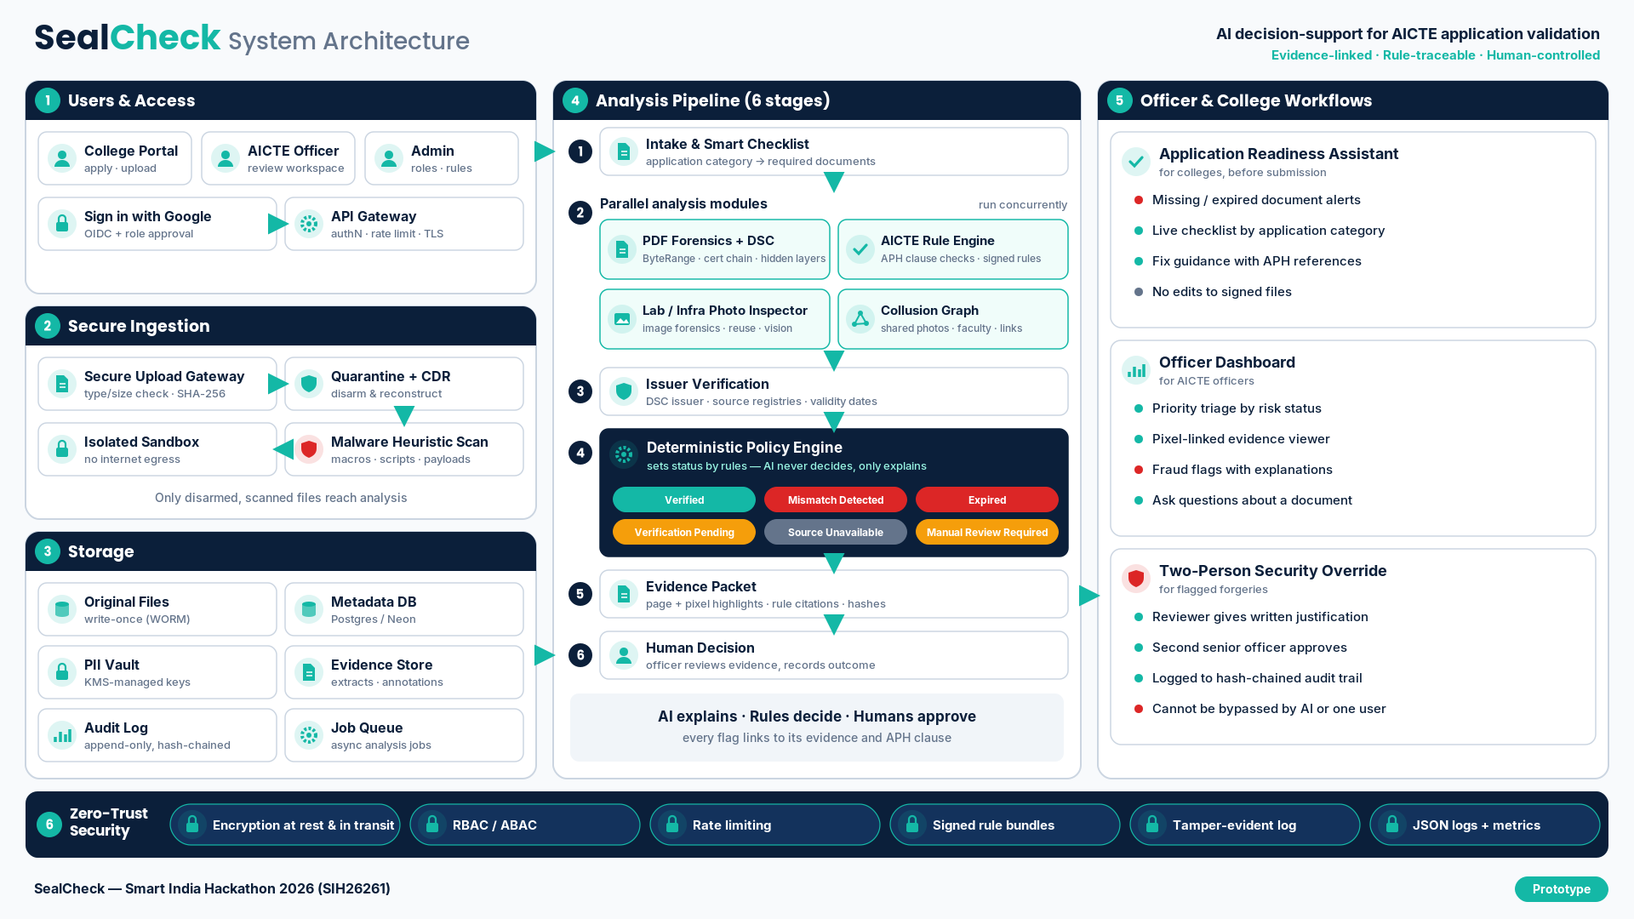
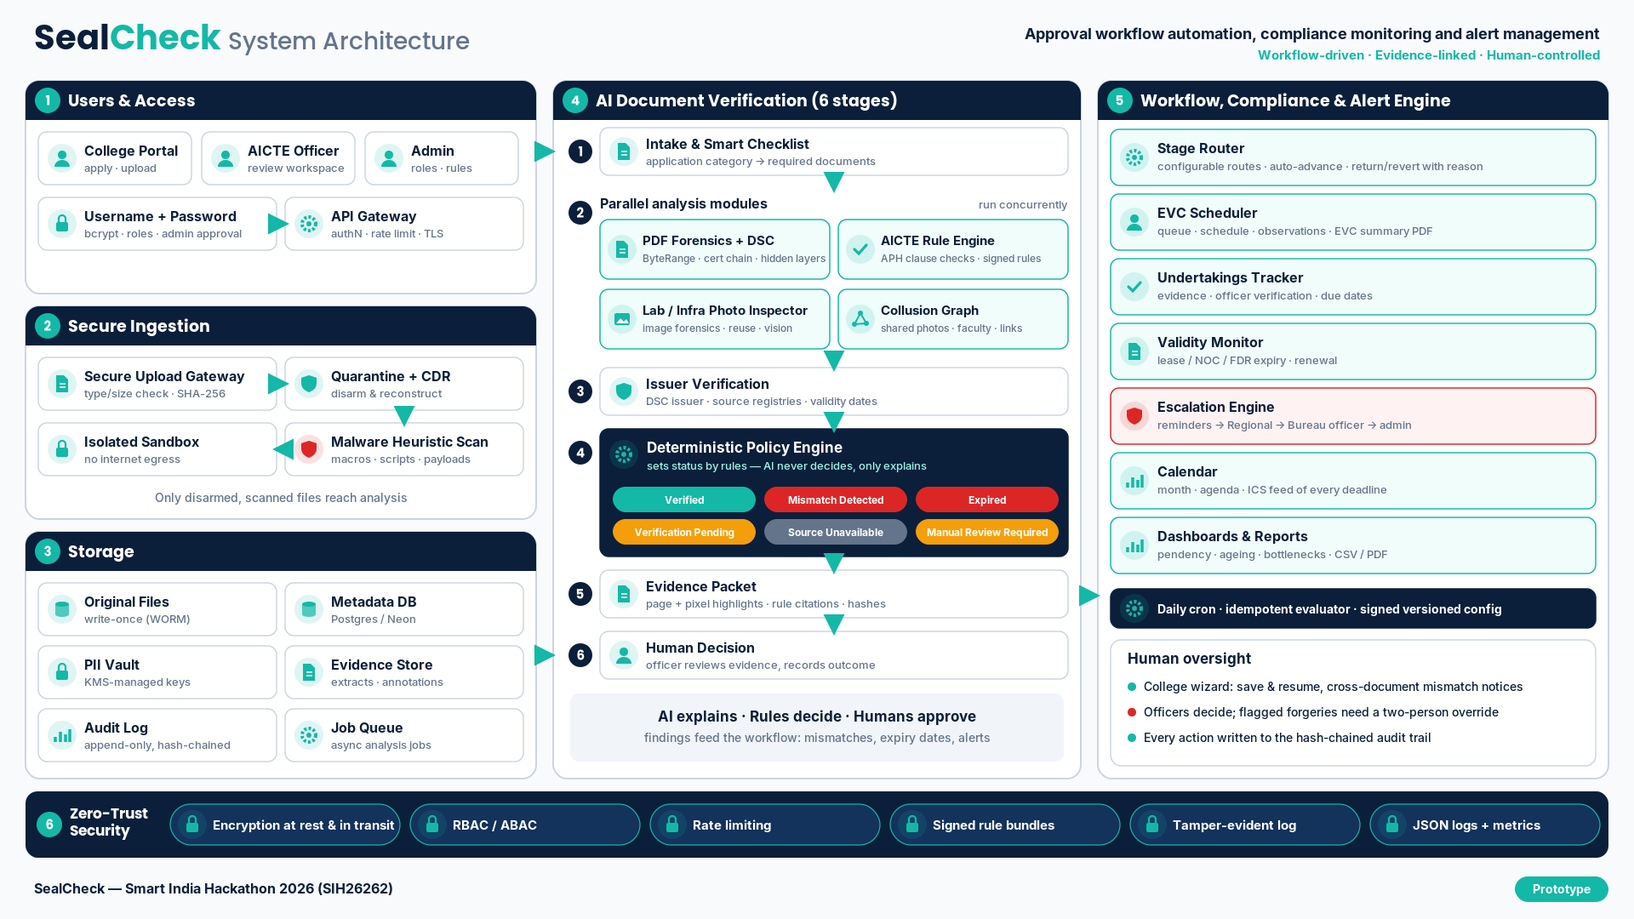
Reposition for SIH26262: workflow automation, compliance monitoring and alert management; problem-statement mapping; new architecture diagram

diff --git a/frontend/src/pages/Login.tsx b/frontend/src/pages/Login.tsx
@@ -29,9 +29,9 @@ export default function Login() {
     try { const u = await login(e, p); toast('success', `Welcome, ${u.name}`, u.role_label) } catch (x: any) { setErr(x.message) } finally { setBusy(null) }
   }
   const feats = [
-    { i: Lock, t: 'Zero-trust intake', d: 'Malware scan, CDR and an isolated sandbox for every file' },
-    { i: ScanSearch, t: 'Forensics that show proof', d: 'Hidden text, overlays and broken DSC signatures highlighted on the page' },
-    { i: Network, t: 'Cross-college collusion', d: 'Shared faculty PANs and recycled lab photos linked in a graph' },
+    { i: Network, t: 'Workflow automation', d: 'Configurable stage routing, EVC scheduling, return/revert with reasons' },
+    { i: Lock, t: 'Compliance & alerts', d: 'Undertakings, lease/document validity, reminders and escalation to officers' },
+    { i: ScanSearch, t: 'AI document verification', d: 'PDF forensics, DSC checks, photo forensics and cross-document consistency' },
     { i: Scale, t: 'Humans decide', d: 'Deterministic policy, explained by AI agents, signed off by officers' },
   ]
   const portal = theme === 'portal'
@@ -102,12 +102,12 @@ export default function Login() {
         <section className="card self-start overflow-hidden p-0">
           <div className="card-head px-5 py-3 text-[15px] font-bold uppercase tracking-wide">About SealCheck</div>
           <div className="p-5">
-            <h1 className="font-display text-[26px] font-bold leading-tight text-primary dark:text-ink">Verify every approval document. Trust nothing until it is proven.</h1>
-            <p className="mt-3 text-[15px] leading-relaxed text-muted">SealCheck checks college submissions for forgery, expiry and collusion, and shows officers exactly where the evidence is, so decisions are fast, fair and defensible.</p>
+            <h1 className="font-display text-[26px] font-bold leading-tight text-primary dark:text-ink">Every AICTE approval, routed, tracked and verified.</h1>
+            <p className="mt-3 text-[15px] leading-relaxed text-muted">SealCheck automates the approval workflow (stage routing, EVC scheduling, undertakings, document validity, deadline alerts and escalation) and adds AI document verification that shows officers exactly where the evidence is. Officers still take every decision.</p>
             <ul className="mt-5 grid gap-3 sm:grid-cols-2">
               {feats.map((f) => <li key={f.t} className="flex gap-3 rounded border border-line bg-surface-2 p-3"><f.i className="mt-0.5 h-5 w-5 shrink-0 text-[color:var(--link)]" /><span><span className="block text-sm font-bold">{f.t}</span><span className="block text-[13px] text-muted">{f.d}</span></span></li>)}
             </ul>
-            <div className="mt-5 rounded px-3 py-2 text-[13px] font-semibold text-[#111]" style={{ background: 'var(--amber)' }}>Smart India Hackathon 2026 · Problem statement SIH26261{cfg?.demo_accounts ? ' · synthetic demo data only' : ' · prototype, not an official AICTE system'}</div>
+            <div className="mt-5 rounded px-3 py-2 text-[13px] font-semibold text-[#111]" style={{ background: 'var(--amber)' }}>Smart India Hackathon 2026 · Problem statement SIH26262{cfg?.demo_accounts ? ' · synthetic demo data only' : ' · prototype, not an official AICTE system'}</div>
           </div>
         </section>
         <section className="card p-6">{panel}</section>
@@ -122,9 +122,9 @@ export default function Login() {
         <div className="absolute -right-32 -top-32 h-96 w-96 rounded-full bg-white/10 blur-3xl" />
         <div className="relative">
           <Logo light size={40} />
-          <div className="mt-8 inline-flex lg:mt-10 items-center gap-2 rounded-full bg-white/10 px-3 py-1 text-xs font-semibold backdrop-blur"><Fingerprint className="h-3.5 w-3.5" />Smart India Hackathon · AICTE · SIH26261</div>
-          <h1 className="mt-4 max-w-xl font-display text-[30px] font-bold leading-[1.1] sm:text-[38px] 2xl:text-[44px]">Verify every approval document. Trust nothing until it is proven.</h1>
-          <p className="mt-4 hidden max-w-lg text-[15px] sm:block leading-relaxed text-white/80">SealCheck checks college submissions for forgery, expiry and collusion — and shows officers exactly where the evidence is, so decisions are fast, fair and defensible.</p>
+          <div className="mt-8 inline-flex lg:mt-10 items-center gap-2 rounded-full bg-white/10 px-3 py-1 text-xs font-semibold backdrop-blur"><Fingerprint className="h-3.5 w-3.5" />Smart India Hackathon · AICTE · SIH26262</div>
+          <h1 className="mt-4 max-w-xl font-display text-[30px] font-bold leading-[1.1] sm:text-[38px] 2xl:text-[44px]">Every AICTE approval, routed, tracked and verified.</h1>
+          <p className="mt-4 hidden max-w-lg text-[15px] sm:block leading-relaxed text-white/80">SealCheck automates the approval workflow (stage routing, EVC scheduling, undertakings, document validity, deadline alerts and escalation) and adds AI document verification that shows officers exactly where the evidence is.</p>
           <div className="mt-7 hidden max-w-xl gap-3 sm:grid sm:grid-cols-2">
             {feats.map((f) => (
               <div key={f.t} className="rounded-2xl border border-white/15 bg-white/[.07] p-4 backdrop-blur">

diff --git a/frontend/src/pages/HowItWorks.tsx b/frontend/src/pages/HowItWorks.tsx
@@ -12,7 +12,8 @@ const STEPS = [
   { n: '5', i: Scale, t: 'Deterministic policy engine', d: 'An ordered rule table (P1–P6) turns findings into one of six statuses. Same input, same output, every time.', who: 'Policy' },
   { n: '6', i: Bot, t: 'Agents explain', d: 'Advocate, Critic and Head agents debate the evidence in plain language. They cannot change the status.', who: 'Explainability' },
   { n: '7', i: UserCheck, t: 'Officer decides', d: 'Priority queue, highlighted evidence, Q&A with citations. Forgery flags need a two-person override.', who: 'Human' },
-  { n: '8', i: FileCheck2, t: 'Evidence packet & audit', d: 'Signed-off decisions, evidence PDFs and a hash-chained audit trail that anyone can re-verify.', who: 'Record' },
+  { n: '8', i: ArrowDown, t: 'Workflow, compliance & alerts', d: 'The application moves through configurable stages (scrutiny, EVC, review, decision) with SLA clocks. EVC visits are scheduled, undertakings and lease/document validity are tracked, reminders go out before deadlines and missed ones escalate to officers. Everything shows on the calendar, pendency dashboard and reports.', who: 'Workflow' },
+  { n: '9', i: FileCheck2, t: 'Evidence packet & audit', d: 'Signed-off decisions, evidence PDFs and a hash-chained audit trail that anyone can re-verify.', who: 'Record' },
 ]
 const STATUSES = [
   ['Verified', 'All checks passed.', 'bg-emerald-500'], ['Mismatch Detected', 'Forgery indicator found — hidden text, overlay, broken signature or reused photo.', 'bg-amber-500'],
@@ -23,7 +24,7 @@ const STATUSES = [
 export default function HowItWorks() {
   return (
     <>
-      <PageHeader eyebrow="Plain-language guide" title="How SealCheck works" desc="Zero trust means no file is trusted because of who uploaded it. Every document is proven genuine by evidence — or flagged with the exact reason." />
+      <PageHeader eyebrow="Plain-language guide" title="How SealCheck works" desc="SealCheck runs the AICTE approval workflow end to end and verifies every document on the way. No file is trusted because of who uploaded it: each is proven genuine by evidence, or flagged with the exact reason." />
       <div className="grid gap-6 lg:grid-cols-[1fr_360px]">
         <ol className="space-y-2">{STEPS.map((s, i) => (
           <li key={s.n}>

diff --git a/frontend/src/components/Portal.tsx b/frontend/src/components/Portal.tsx
@@ -65,7 +65,7 @@ export function Masthead({ right }: { right?: ReactNode }) {
           <ShieldMark />
           <span className="leading-tight">
             <span className="block text-[20px] font-bold text-primary">SealCheck</span>
-            <span className="hidden text-[12px] font-semibold text-muted sm:block">Zero-trust document verification for approval processes · SIH 2026 prototype</span>
+            <span className="hidden text-[12px] font-semibold text-muted sm:block">Approval workflow automation, compliance monitoring and alert management · SIH26262 prototype</span>
           </span>
         </Link>
         <span className="ml-2 hidden rounded border border-[#b34000] px-2 py-0.5 text-[11px] font-bold uppercase text-[#b34000] dark:border-amber-300 dark:text-amber-300 md:inline">Prototype</span>
@@ -136,7 +136,7 @@ export function PortalFooter() {
     <footer className="mt-10 bg-primary text-[13px] text-white dark:bg-side">
       <Tricolour />
       <div className="mx-auto grid max-w-[1360px] gap-6 px-4 py-7 md:grid-cols-3 md:px-8">
-        <div className="flex items-start gap-3"><ShieldMark size={38} /><div><div className="font-bold">SealCheck</div><p className="mt-1 text-white/85">Zero-trust compliance verification · SIH26261</p></div></div>
+        <div className="flex items-start gap-3"><ShieldMark size={38} /><div><div className="font-bold">SealCheck</div><p className="mt-1 text-white/85">Approval workflow, compliance monitoring and alerts · SIH26262</p></div></div>
         <div><div className="font-bold">Accessibility</div><p className="mt-1 text-white/85">Text resize, high-contrast mode, keyboard navigation and a skip link are in the utility bar.</p></div>
         <div><div className="font-bold">Data</div><p className="mt-1 text-white/85"><FooterData /></p></div>
       </div>

diff --git a/frontend/index.html b/frontend/index.html
@@ -6,8 +6,8 @@
     <link rel="manifest" href="/manifest.webmanifest" />
     <meta name="theme-color" content="#032761" />
     <meta name="viewport" content="width=device-width, initial-scale=1.0" />
-    <meta name="description" content="SealCheck — Zero-Trust AI Compliance Platform for AICTE (SIH26261 prototype)" />
-    <title>SealCheck · Zero-Trust AI Compliance for AICTE</title>
+    <meta name="description" content="SealCheck — Integrated AICTE approval workflow automation, compliance monitoring and alert management (SIH26262 prototype)" />
+    <title>SealCheck · AICTE Approval Workflow & Compliance</title>
   </head>
   <body>
     <div id="root"></div>

diff --git a/backend/app/main.py b/backend/app/main.py
@@ -1,4 +1,4 @@
-"""SealCheck API (FastAPI). Zero-trust AI compliance platform prototype for AICTE (SIH26261)."""
+"""SealCheck API (FastAPI). Integrated AICTE approval workflow automation, compliance monitoring and alert management prototype (SIH26262)."""
 import logging
 import json, os, shutil, tempfile, time
 from collections import defaultdict, deque
@@ -75,7 +75,7 @@ async def lifespan(_app):
 
 
 app = FastAPI(title="SealCheck API", version="1.0.0", lifespan=lifespan,
-              description="Zero-Trust AI Compliance Platform for AICTE — SIH26261 prototype. All demo data is synthetic.")
+              description="Integrated AICTE approval workflow automation, compliance monitoring and alert management — SIH26262 prototype. All demo data is synthetic.")
 from . import ops  # noqa: E402
 ops.fail_fast_if_insecure(IS_PROD)
 app.add_middleware(CORSMiddleware, allow_origins=[o for o in os.environ.get("CORS_ORIGINS", "http://localhost:5173").split(",") if o],

diff --git a/README.md b/README.md
@@ -1,10 +1,64 @@
-# SealCheck — Zero-Trust AI Compliance Platform for AICTE (SIH 2026 · SIH26261)
+# SealCheck: Integrated AICTE Approval Workflow Automation, Compliance Monitoring and Alert Management (SIH 2026 · SIH26262)
 
-SealCheck checks the documents that colleges submit for AICTE approval: land deeds, fire NOCs, faculty lists, lab photos and others. Every file is treated as hostile. It is opened in an isolated sandbox worker and rebuilt with Content Disarm & Reconstruction (CDR). It is then checked by forensic, rule, photo and collusion modules. A deterministic policy engine assigns one of six statuses. **AI explains, humans decide.** Officers make every decision. Approving a flagged document needs a two-person override, and every action is written to a hash-chained audit log.
+**Approval workflow automation, compliance monitoring and alert management, with AI document verification built in.**
 
-> Prototype status: everything in this repo runs end to end on one machine. Components that would be external services in production (HSM/KMS, DigiLocker/issuer registries, a container sandbox) are **simulated with clearly-labelled adapters**. See [Real vs simulated](#real-vs-simulated).
+SealCheck is a prototype for Smart India Hackathon 2026 problem statement **SIH26262** (AICTE · Software · Smart Automation). It runs the AICTE approval process end to end:
+- configurable **stage routing** with auto-advance and return/revert with reason
+- **EVC** queueing, scheduling and summary
+- **undertakings** with evidence and verification
+- **lease and document validity** tracking and renewal
+- **deadline reminders and escalation** to officers
+- a **calendar**, **pendency dashboards**, CSV/PDF **reports** and a hash-chained **audit trail**
 
-## Architecture
+Its standout differentiator is **AI document verification** of every uploaded file: PDF forensics, DSC signature checks, photo forensics, cross-document consistency, issuer checks and evidence packets. Every file is treated as hostile (sandbox + Content Disarm & Reconstruction), and a deterministic policy engine assigns the status. **AI explains, humans decide:** officers take every decision, and flagged documents need a two-person override.
+
+> **Safeguard:** Automated alerts, recommendations and workflow actions support the approval process. They do not replace statutory scrutiny, verification, inspections or decisions taken by the competent authority.
+
+> Prototype status: prototype, not an official AICTE system. Everything in this repo runs end to end on one machine. Components that would be external services in production (HSM/KMS, DigiLocker/issuer registries, a container sandbox, the AICTE portal itself) are **simulated with clearly labelled adapters**. See [Real vs simulated](#real-vs-simulated). All demo data is synthetic.
+
+## Problem statement SIH26262 → where SealCheck implements it
+
+The left column paraphrases the problem statement's sections. "Partial" or "Gap" is stated honestly.
+
+| Problem statement section | SealCheck feature | Screen | Files | Status |
+|---|---|---|---|---|
+| **A. Workflow automation**: configurable routes, automatic movement between stages, return/revert with reasons | Stage router with signed, versioned config; auto-advance on stage completion; return-to-institution and revert need a reason; stage history | Application page (workflow panel), `/workflow-config` | `backend/app/workflow.py`, `backend/app/rules/workflow.yaml`, `backend/app/wf_api.py`, `frontend/src/components/WorkflowPanel.tsx` | Done |
+| **B. Monitoring dashboards**: pendency, ageing, bottlenecks, alerts | Pendency dashboard by region, stage, officer and institution; ageing buckets; overdue/approaching items; bottleneck stages (mean days); open alerts | `/pendency` | `backend/app/wf_reports.py`, `frontend/src/pages/Pendency.tsx` | Done |
+| **C. EVC management**: queueing, scheduling, completion, reminders | EVC queue, schedule (date + members), member observations against a checklist, close visit, summarised EVC form (screen + PDF), visit reminders and escalation | `/evc` | `backend/app/workflow.py`, `frontend/src/pages/Evc.tsx` | Done |
+| **D. Undertakings and compliance**: evidence, verification, escalation | Undertakings with due dates, evidence upload, officer verify/reject, escalation when overdue | `/compliance` (Undertakings tab) | `frontend/src/pages/Compliance.tsx`, `backend/app/wf_api.py` | Done |
+| **E. Document validity**: lease, NOC and FDR expiry tracking and renewal | Validity end dates per document type, reminders 60/30/15/7/1 days before expiry, renewal upload + verification; DSC and validity-date checks during document verification | `/compliance` (Validity tab), document panel | `backend/app/workflow.py`, `backend/app/pipeline/rule_engine.py` | Done |
+| **F. Alerts, notifications, reports, audit**: configurable notifications and escalation, CSV/PDF reports, full audit trail | Configurable reminder offsets and escalation ladders (Regional officer → Bureau officer → admin); in-app notifications (email only when SMTP is configured); a calendar with ICS feed; CSV/PDF reports; hash-chained audit log with verify | Bell, `/calendar`, `/reports`, `/audit` | `backend/app/notify.py`, `backend/app/wf_reports.py`, `backend/app/audit.py` | Done (email: needs SMTP) |
+| **Key requirement: role-based access** | Roles: college, EVC member, Regional officer, Bureau officer, admin. Username + password accounts; non-college roles need admin approval | `/signup`, `/admin` | `backend/app/accounts.py`, [docs/ACCOUNTS_AND_ROLES.md](docs/ACCOUNTS_AND_ROLES.md) | Done |
+| **Key requirement: integration with existing portals** | `PortalAdapter` interface for fetching applications and pushing stage changes/alerts; issuer-connector examples | `/workflow-config` (Integrations) | `backend/app/integrations.py`, `deploy/issuer-connectors.example.yaml` | **Gap:** interface only; not connected to any real AICTE or issuer system |
+| **Key requirement: scheduled automation** | Idempotent deadline evaluator; daily Vercel cron (`/api/cron/evaluate`); dev background scheduler | `/workflow-config` (Scheduler runs) | `backend/app/workflow.py`, `vercel.json` | Done |
+| **Key requirement: document verification** (differentiator) | PDF forensics (hidden text, overlays, incremental edits), DSC validation, photo forensics (EXIF, pHash/ORB reuse), cross-document core-field consistency, issuer registry checks, collusion graph, evidence packets | Application page, `/queue`, `/collusion` | `backend/app/pipeline/*`, `backend/app/crosscheck.py` | Done. Issuer checks use simulated registries |
+| **Prototype criteria: working end-to-end demo** | Live deployment (Vercel + Neon Postgres, no demo data) plus a local demo with synthetic data and one-click personas | All | `run.sh`, `api/index.py`, `seed/` | Done |
+| **Prototype criteria: human oversight** | Deterministic policy; AI agents explain only; officers decide; two-person override for flagged documents; safeguard notice in the UI | `/queue`, `/overrides` | `backend/app/pipeline/policy.py`, `backend/app/agents.py` | Done |
+| **Prototype criteria: security and audit** | Sandbox + CDR, envelope encryption, WORM store, PII vault, bcrypt passwords with lockout, token revocation, hash-chained audit | `/security`, `/audit` | [docs/SECURITY.md](docs/SECURITY.md) | Done (sandbox is process-level on Vercel) |
+| **Scale and performance** | Inline jobs on serverless; Redis queue + workers available for self-hosting | n/a | `docs/PRODUCTION.md` | **Not load-tested.** No performance figures are claimed |
+
+Stage names, SLA days and region names are editable placeholders, not quotations from the AICTE Approval Process Handbook.
+
+## Workflow, compliance and alerts (core)
+
+Full detail is in [docs/WORKFLOW.md](docs/WORKFLOW.md). The architecture image is [docs/sealcheck_architecture_1920x1080.png](docs/sealcheck_architecture_1920x1080.png).
+
+| Area | What you get | Where |
+|---|---|---|
+| Application wizard | Google-Form-like steps, a progress bar, drafts you can save and resume, per-step validation | `/apply` |
+| Cross-document check | Core fields compared across documents. Each mismatch is returned to the institution as "to be corrected / re-uploaded" and flagged to officers | Wizard review, application page |
+| Routes | Configurable stages and routes, auto-advance, return/revert with a reason | `rules/workflow.yaml`, `/workflow-config` |
+| Reminders and escalation | Reminders before each deadline. After a missed deadline, escalation to the Regional officer, then the Bureau officer, then the admin | Daily cron, in-app and email (SMTP) |
+| Calendar | Month and agenda views, ICS subscription | `/calendar` |
+| Pendency | Ageing, bottlenecks, overdue, alerts, by region/stage/officer/institution | `/pendency` |
+| EVC | Queue, scheduling, member observations, completion, a summarised EVC form (one page + detail, on screen and PDF) | `/evc` |
+| Undertakings and validity | Evidence, verification and escalation. Validity expiry tracking and renewal | `/compliance` |
+| Reports | CSV and PDF exports; every action is in the hash-chained audit trail | `/reports` |
+| Integration hooks | `PortalAdapter` interface only. Not connected to any real AICTE system | `backend/app/integrations.py` |
+
+Stage names, SLA days and region names are **editable placeholders**, not quotations from the AICTE Approval Process Handbook.
+
+## Architecture (AI document verification pipeline)
 
 ```mermaid
 flowchart LR
@@ -101,27 +155,6 @@ Full script with talking points: [docs/DEMO_SCRIPT.md](docs/DEMO_SCRIPT.md).
 4. **1:45** Open **Collusion graph**. A faculty PAN is shared between SVIT and GVCE (matched by blind index), and DIEM reuses a lab photo (pHash).
 5. **2:15** Open **Security center**. Watch a 60-second job token expire, run the KMS demo, and verify the audit chain.
 6. **2:40** Sign in as **principal.gvce**. Use the readiness pre-check, the rejection helper and the offline queue (DevTools → offline → upload), and switch themes.
-
-## Approval workflow (deadlines, escalation, EVC, compliance)
-
-> **Safeguard:** Automated alerts, recommendations and workflow actions support the approval process. They do not replace statutory scrutiny, verification, inspections or decisions taken by the competent authority.
-
-Full detail is in [docs/WORKFLOW.md](docs/WORKFLOW.md). The architecture image is [docs/sealcheck_architecture_1920x1080.png](docs/sealcheck_architecture_1920x1080.png).
-
-| Area | What you get | Where |
-|---|---|---|
-| Application wizard | Google-Form-like steps, a progress bar, drafts you can save and resume, per-step validation | `/apply` |
-| Cross-document check | Core fields compared across documents. Each mismatch is returned to the institution as "to be corrected / re-uploaded" and flagged to officers | Wizard review, application page |
-| Routes | Configurable stages and routes, auto-advance, return/revert with a reason | `rules/workflow.yaml`, `/workflow-config` |
-| Reminders and escalation | Reminders before each deadline. After a missed deadline, escalation to the Regional officer, then the Bureau officer, then the admin | Daily cron, in-app and email (SMTP) |
-| Calendar | Month and agenda views, ICS subscription | `/calendar` |
-| Pendency | Ageing, bottlenecks, overdue, alerts, by region/stage/officer/institution | `/pendency` |
-| EVC | Queue, scheduling, member observations, completion, a summarised EVC form (one page + detail, on screen and PDF) | `/evc` |
-| Undertakings and validity | Evidence, verification and escalation. Validity expiry tracking and renewal | `/compliance` |
-| Reports | CSV and PDF exports; every action is in the hash-chained audit trail | `/reports` |
-| Integration hooks | `PortalAdapter` interface only. Not connected to any real AICTE system | `backend/app/integrations.py` |
-
-Stage names, SLA days and region names are **editable placeholders**, not quotations from the AICTE Approval Process Handbook.
 
 ## Production deployment on Vercel (https://sealcheck-nu.vercel.app)
 

diff --git a/docs/ARCHITECTURE.md b/docs/ARCHITECTURE.md
@@ -1,5 +1,10 @@
 # Architecture
 
+SealCheck is the SIH26262 prototype: integrated AICTE approval workflow automation, compliance monitoring and alert management. AI document verification is built into the same platform.
+The diagram is [sealcheck_architecture_1920x1080.png](sealcheck_architecture_1920x1080.png).
+- **Workflow and alert engine:** stage router, EVC scheduler, undertakings tracker, validity monitor, escalation engine, calendar and reports. See [WORKFLOW.md](WORKFLOW.md).
+- **Verification pipeline:** gateway → sandbox + CDR → modules 4A–4D → policy → agents → officer. It feeds its findings into the workflow (cross-document mismatches, expiry dates).
+
 ## Components
 | Layer | Implementation |
 |---|---|

diff --git a/docs/DEMO_SCRIPT.md b/docs/DEMO_SCRIPT.md
@@ -1,5 +1,7 @@
 # 3-minute judge demo
 
+Problem statement **SIH26262**: integrated AICTE approval workflow automation, compliance monitoring and alert management. Show the workflow first (wizard → routing → EVC → compliance → pendency/escalation → reports), then the AI document verification.
+
 Setup: run `RESEED=1 ./run.sh` and open http://localhost:8000. Every password is `Demo@2026`, and you can click a demo card on the login page instead of typing.
 
 **Guided option:** officer dashboard → **Start 3-minute demo tour**. The callouts follow the same steps as the table below.
